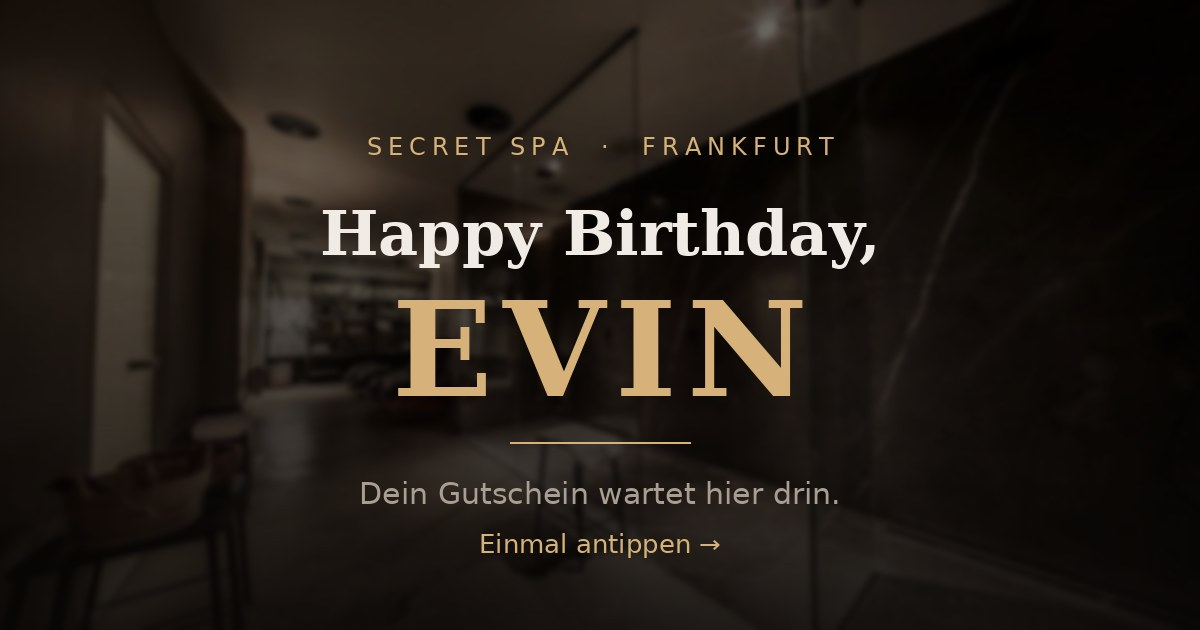
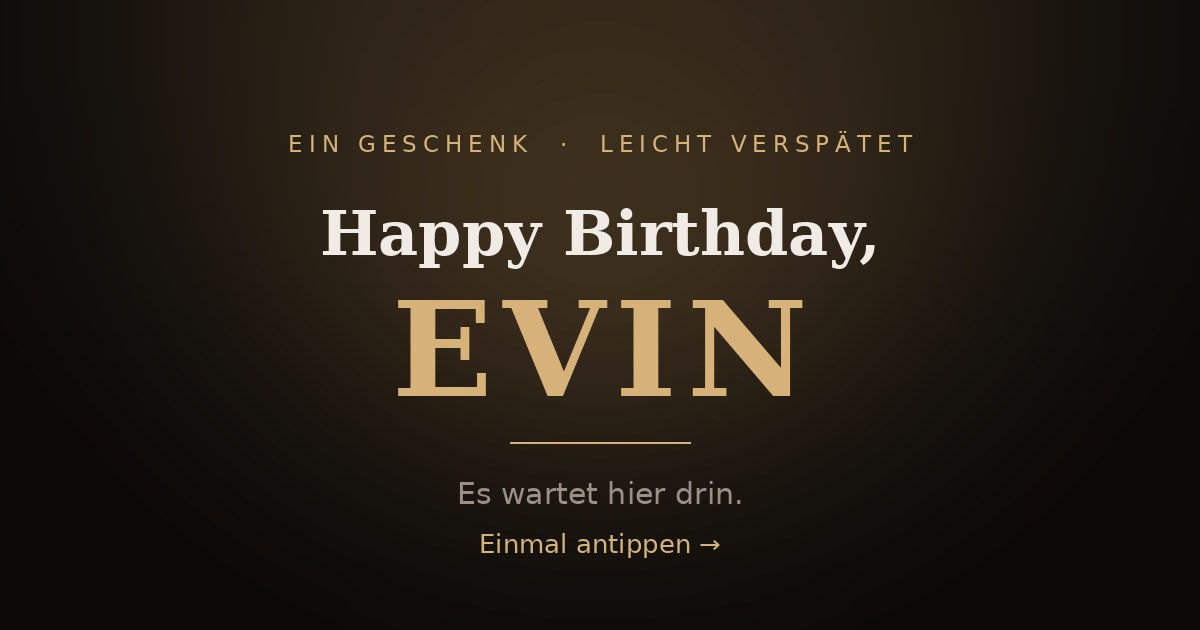
Keep the spa hidden until the end of the page
The gate no longer names the venue, and three other places gave it away
before the reveal: the browser tab title, the meta description, and the
Open Graph card — which said "SECRET SPA · FRANKFURT" in large type and
is the very first thing a WhatsApp recipient sees. The card is now a
plain dark layout with no venue on it, and the gate background is
darkened further so it reads as atmosphere rather than a room.

Voucher hint now says the appointment is hers to pick.

Claude-Session: https://claude.ai/code/session_01LbUJYuDFXWNNrfV1psQLcd

diff --git a/index.html b/index.html
@@ -3,8 +3,8 @@
 <head>
 <meta charset="utf-8">
 <meta name="viewport" content="width=device-width, initial-scale=1, viewport-fit=cover">
-<title>Für Evin · Secret Spa Frankfurt</title>
-<meta name="description" content="Ein sehr verspäteter Geburtstagsgruß und ein Gutschein fürs Secret Spa in Frankfurt.">
+<title>Für Evin</title>
+<meta name="description" content="Ein sehr verspäteter Geburtstagsgruß. Und ein Geschenk.">
 <meta name="theme-color" content="#0c0a09">
 <meta name="robots" content="noindex">
 
@@ -36,7 +36,6 @@
   <div class="steam" aria-hidden="true"><i></i><i></i><i></i><i></i></div>
 
   <div class="gate__inner">
-    <p class="kicker">Secret Spa · Frankfurt · Privatzugang</p>
     <h1 class="gate__title">Für <em>Evin</em></h1>
     <p class="gate__sub">Diese Seite existiert genau einmal und genau für dich.</p>
 
@@ -196,7 +195,7 @@
     <p class="code__label">Einlösecode</p>
     <p class="code__value" id="codeValue">2UJLKFCA9R774J1J</p>
     <button class="code__copy" id="codeCopy" type="button">Code kopieren</button>
-    <p class="code__hint">Wert: 80,00 € · Termin machen wir zusammen aus.</p>
+    <p class="code__hint">Wert: 80,00 € · Termin kannst du dir aussuchen.</p>
   </div>
 
   <figure class="place reveal">

diff --git a/assets/style.css b/assets/style.css
@@ -83,7 +83,8 @@ em{ font-style:italic; }
 .gate__bg{
   position:absolute; inset:0;
   background:url("/assets/media/spa.jpg") center/cover no-repeat;
-  filter:blur(4px) brightness(.48) saturate(.85);
+  /* stark abgedunkelt: soll Atmosphäre sein, nicht den Ort verraten */
+  filter:blur(9px) brightness(.28) saturate(.8);
   transform:scale(1.12);
 }
 .gate__bg::after{
